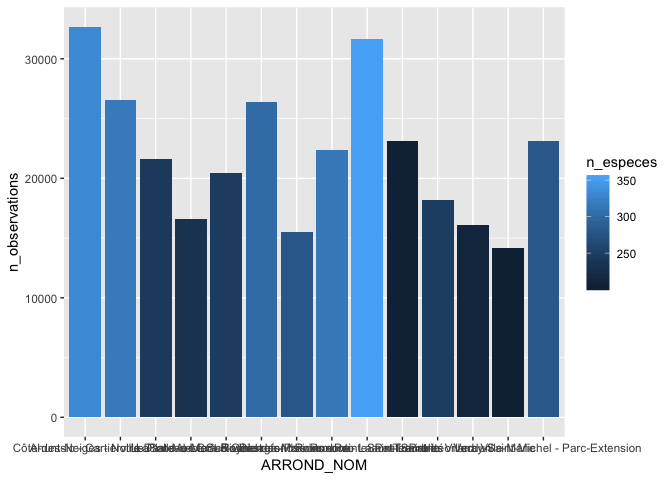
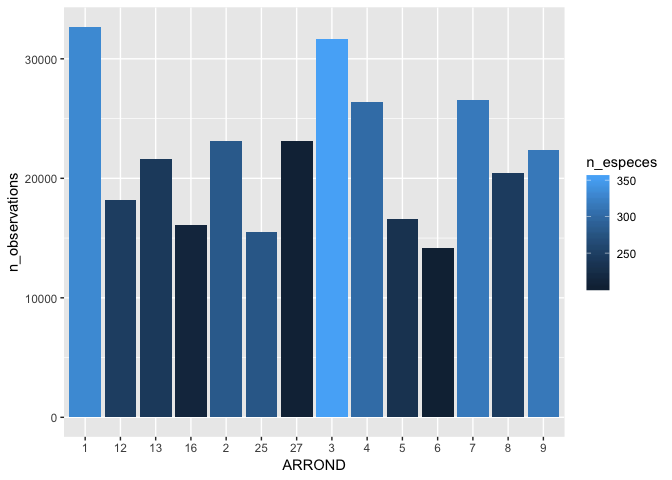
J'avais oublié de permuter les variables pour réellement changer leur type (je n'avais pas réassigné dans le deuxième chunk.)
J'ai aussi remplacer le nom d'arrondissement pour le numéro d'arrondissement dans le graphique.

diff --git a/arbres_manip.html b/arbres_manip.html
@@ -465,6 +465,9 @@ arbres_dataframe$No_civique %&gt;% as.integer()</code></pre>
 ## 12 Verdun                                              16106       212
 ## 13 Saint-Laurent                                       23094       205
 ## 14 Ville-Marie                                         14193       203</code></pre>
+</div>
+<div id="graphique-montrant-la-diversite-darbres-par-arrondissement" class="section level2">
+<h2>Graphique montrant la diversité d’arbres par arrondissement</h2>
 <pre class="r"><code>arbres_dataframe %&gt;% 
   filter(ARROND_NOM != &quot;Anjou&quot; &amp; ARROND_NOM != &quot;Montréal-Est&quot;) %&gt;% 
   group_by(ARROND_NOM) %&gt;%

diff --git a/arbres_manip.md b/arbres_manip.md
@@ -144,6 +144,8 @@ arbres_dataframe %>%
 ## 14 Ville-Marie                                         14193       203
 ```
 
+## Graphique montrant la diversité d'arbres par arrondissement
+
 
 ```r
 arbres_dataframe %>% 
@@ -154,6 +156,6 @@ arbres_dataframe %>%
   geom_bar(stat = "identity")
 ```
 
-![](arbres_manip_files/figure-html/unnamed-chunk-1-1.png)<!-- -->
+![](arbres_manip_files/figure-html/Plot nb arbre nb especes-1.png)<!-- -->
 
 
